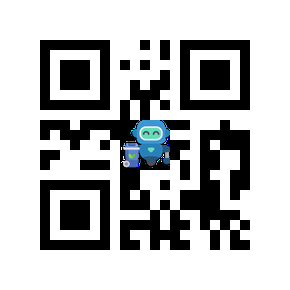
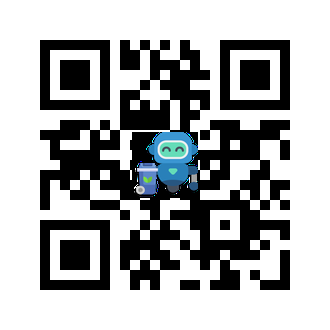
qrcodes being scanned correctly

diff --git a/ch_codes.py b/ch_codes.py
@@ -10,7 +10,7 @@ def generate_code():
 def generate_qrcode(text, filename, logo_path=None):
     qr = qrcode.QRCode(
         version=1,  
-        error_correction=qrcode.constants.ERROR_CORRECT_L, 
+        error_correction=qrcode.constants.ERROR_CORRECT_H,  # Use high error correction
         box_size=10, 
         border=4,  
     )
@@ -18,17 +18,21 @@ def generate_qrcode(text, filename, logo_path=None):
     qr.make(fit=True)
 
     img = qr.make_image(fill_color="black", back_color="white").convert('RGB')
+    
     if logo_path:
         logo = Image.open(logo_path)
-        logo_size = 50  
+        # Resize the logo to a smaller size (e.g., 20% of QR code size)
+        logo_size = min(img.size) // 5  # Logo size is 20% of the QR code size
         logo = logo.resize((logo_size, logo_size), Image.Resampling.LANCZOS)
 
+        # Calculate position to place the logo (center)
         img_width, img_height = img.size
         logo_position = (
             (img_width - logo_size) // 2,
             (img_height - logo_size) // 2
         )
 
+        # Paste the logo onto the QR code
         img.paste(logo, logo_position)
 
     img.save(filename) 
@@ -43,14 +47,19 @@ def get_unique_filename(folder, base_name="qrcode", extension="png"):
         counter += 1
 
 if __name__ == "__main__":
+    # Define the folder where QR codes will be saved
     file_path = 'G:/opportunities/ALX/CHEEMBA/backend/qrcodes'
     
+    # Create the folder if it doesn't exist
     os.makedirs(file_path, exist_ok=True)
+
+    # Generate the code and QR code
     code = generate_code() 
     print(f"Generated code: {code}")
- 
+    
+    # Get a unique filename in the specified folder
     filename = get_unique_filename(file_path)
-    logo_path = "logo.png" 
+    logo_path = "logo.png"  # Ensure this path is correct
     generate_qrcode(code, filename, logo_path) 
     
     print(f"QR code saved as '{filename}'")
